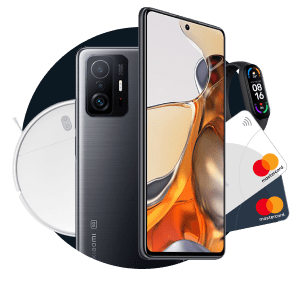
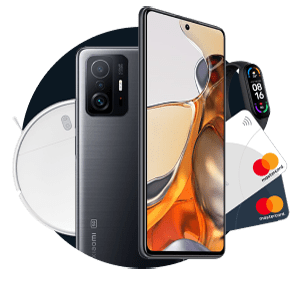
events images changes

diff --git a/www/gifts-payments-landing.html b/www/gifts-payments-landing.html
@@ -202,8 +202,8 @@
 
             <div class="col-md-6 col-lg-5">
               <div class="landing-header__img text-center">
-                <img src="/img/gifts-for-payments/landing-header-big.png" alt="Image" class="d-none d-md-inline">
-                <img src="/img/gifts-for-payments/landing-header-small.png" alt="Image" class="d-md-none">
+                <img src="/img/gifts-for-payments/landing-header-big.png" srcset="/img/gifts-for-payments/landing-header-big.png 1x, /img/gifts-for-payments/landing-header-big@2x.png 2x" alt="Image" class="d-none d-md-inline">
+                <img src="/img/gifts-for-payments/landing-header-small.png" srcset="/img/gifts-for-payments/landing-header-small.png 1x, /img/gifts-for-payments/landing-header-small@2x.png 2x" alt="Image" class="d-md-none">
               </div>
             </div>
 

diff --git a/www/triple-cashback-landing.html b/www/triple-cashback-landing.html
@@ -205,8 +205,8 @@
 
             <div class="col-md-6 col-lg-5">
               <div class="landing-header__img text-center">
-                <img src="/img/triple-cashback/landing-header-big.png" alt="Image" class="d-none d-md-inline">
-                <img src="/img/triple-cashback/landing-header-small.png" alt="Image" class="d-md-none">
+                <img src="/img/triple-cashback/landing-header-big.png" srcset="/img/triple-cashback/landing-header-big.png 1x, /img/triple-cashback/landing-header-big@2x.png 2x" alt="Image" class="d-none d-md-inline">
+                <img src="/img/triple-cashback/landing-header-small.png" srcset="/img/triple-cashback/landing-header-small.png 1x, /img/triple-cashback/landing-header-small@2x.png 2x" alt="Image" class="d-md-none">
               </div>
             </div>
 
